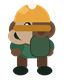
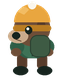
옆모습 귀와 눈 가림 현상 추가 수정

diff --git a/Project/pico_heist/art_sprites.py b/Project/pico_heist/art_sprites.py
@@ -110,11 +110,12 @@ def pico(direction="down", frame=0):
     p.ell((40, 40 + bob, 54, 55 + bob), GREEN)
     p.ell((11, 49 + bob, 21, 57 + bob), FUR)
     p.ell((43, 49 + bob, 53, 57 + bob), FUR)
-    # ---- ears
-    p.ell((9, 20, 25, 38), FUR)
-    p.ell((39, 20, 55, 38), FUR)
-    p.ell((12, 24, 21, 33), FUR_D)
-    p.ell((43, 24, 52, 33), FUR_D)
+    # ---- ears (옆모습은 아래에서 귀 하나만 따로 그린다)
+    if direction not in ("left", "right"):
+        p.ell((9, 20, 25, 38), FUR)
+        p.ell((39, 20, 55, 38), FUR)
+        p.ell((12, 24, 21, 33), FUR_D)
+        p.ell((43, 24, 52, 33), FUR_D)
     # ---- head
     p.ell((14, 10, 50, 46), FUR)
     if direction == "up":
@@ -127,15 +128,12 @@ def pico(direction="down", frame=0):
     elif direction in ("left", "right"):
         # 옆모습은 왼쪽을 보고 그린 뒤, 오른쪽은 마지막에 전체를 반전한다.
         # (몸만 먼저 반전하면 얼굴이 여전히 왼쪽을 봐서 어색해진다.)
-        p.ell((8, 28, 30, 44), MUZZLE)          # 주둥이
-        p.ell((14, 31, 22, 39), INK)            # 코
-        p.pie((15, 10, 49, 44), 90, 270, MUZZLE)  # 얼굴 하단 밝게
-        p.ell((24, 22, 31, 30), INK)            # 눈
-        p.ell((25.5, 23.5, 28, 26), CREAM)      # 눈 하이라이트
-        p.pline([(16, 38), (21, 40)], FUR_D, 1.2)
+        p.ell((8, 29, 28, 43), MUZZLE)          # 주둥이 (옆으로 짧게)
+        p.ell((12, 32, 20, 39), INK)            # 코
+        p.pline([(15, 39), (21, 41)], FUR_D, 1.2)
         p.rr((30, 36 + bob, 50, 58 + bob), 7, "#3E5B44", "#2A4030", 1.0)  # 배낭
-        p.ell((34, 24, 48, 38), FUR)            # 반대쪽 귀
-        p.ell((37, 27, 45, 35), FUR_D)
+        p.ell((34, 16, 48, 34), FUR)            # 옆모습 귀 하나
+        p.ell((37, 20, 45, 30), FUR_D)
     else:  # down
         p.ell((22, 30, 42, 44), MUZZLE)
         p.ell((28, 31, 36, 37), INK)
@@ -152,6 +150,11 @@ def pico(direction="down", frame=0):
     p.rr((13, 25, 51, 31), 3.2, AMBER_D)
     p.ell((28, 1, 36, 9), CREAM)
     p.pie((18, 7, 30, 22), 200, 320, "#F2BC63")
+    if direction in ("left", "right"):
+        # 비니에 가리지 않도록 눈은 모자 위에 다시 그린다.
+        p = Pen(im, ss)
+        p.ell((25, 26, 32, 34), INK)
+        p.ell((26.5, 27.5, 29, 30), CREAM)
     if direction == "right":
         im = ImageOps.mirror(im)
     return down(im, w, h)
@@ -211,8 +214,9 @@ def camper(variant=0, direction="down", frame=0, sitting=False):
     p.ell((44, 53 + bob, 53, 60 + bob), skin)
     # head
     p.ell((15, 9, 49, 45), skin)
-    p.ell((12, 20, 19, 32), skin)   # 귀
-    p.ell((45, 20, 52, 32), skin)
+    if direction not in ("left", "right"):
+        p.ell((12, 20, 19, 32), skin)   # 정면·후면 귀 두 개
+        p.ell((45, 20, 52, 32), skin)
     if direction == "up":
         p.pie((14, 8, 50, 40), 180, 360, hair)
         p.rect((14, 10, 50, 26), hair)
@@ -222,10 +226,8 @@ def camper(variant=0, direction="down", frame=0, sitting=False):
         # 얼굴 앞(왼쪽)은 살색으로 남기고 머리는 위쪽과 뒤쪽만 덮는다.
         p.pie((14, 8, 50, 42), 180, 360, hair)   # 정수리·앞머리
         p.ell((34, 9, 50, 39), hair)             # 뒤통수
-        p.ell((31, 26, 40, 36), skin)            # 귀
-        p.ell((33, 28, 38, 33), "#D9A882")
-        p.ell((24, 24, 30, 31), INK)             # 눈
-        p.ell((25, 25, 27, 27.5), CREAM)
+        p.ell((30, 22, 39, 34), skin)            # 옆모습 귀 하나
+        p.ell((32, 25, 37, 31), "#D9A882")
         p.ell((16, 28, 22, 32), "#D9A882")       # 코
         p.pline([(22, 36), (28, 36)], "#8E5A48", 1.2)
     else:
@@ -241,6 +243,11 @@ def camper(variant=0, direction="down", frame=0, sitting=False):
         p.pie((15, 0, 49, 26), 180, 360, "#4C6B58")
         p.rr((13, 18, 51, 23), 2, "#3A5346")
         p.ell((28, 13, 36, 20), "#4C6B58")
+    if direction in ("left", "right"):
+        # 모자에 가리지 않도록 눈은 마지막에 다시 그린다.
+        p = Pen(im, ss)
+        p.ell((24, 26, 30, 33), INK)
+        p.ell((25, 27, 27, 29), CREAM)
     if direction == "right":
         im = ImageOps.mirror(im)
     return down(im, w, h)
